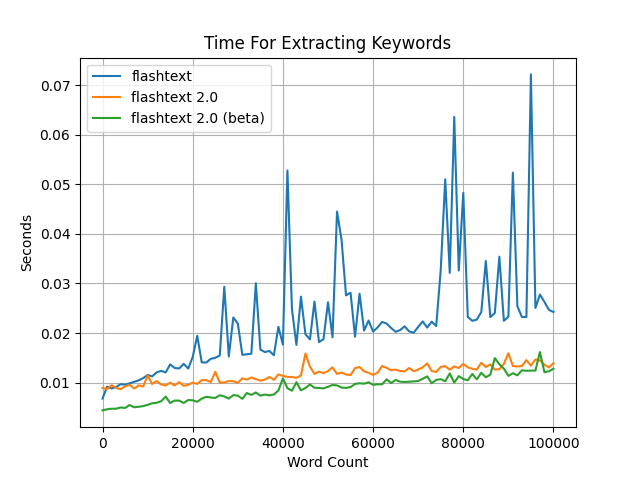
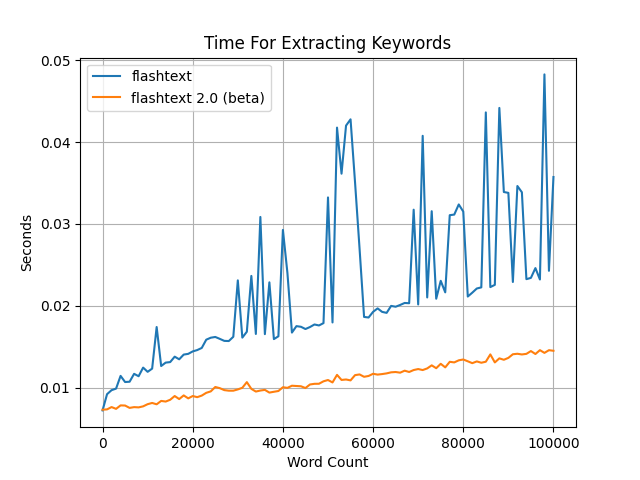
Passes 50/50 tests and its twice as fast

diff --git a/benchmarks/benchmark_extract.py b/benchmarks/benchmark_extract.py
@@ -6,70 +6,12 @@ import pandas as pd
 
 import time
 import random
-import re
-import itertools
-import string
-from typing import Iterator, TYPE_CHECKING
+from typing import TYPE_CHECKING
 
 from utils import all_words  # , pretty_print
 
 if TYPE_CHECKING:
     from flashtext2 import KeywordProcessor
-
-
-non_word_boundaries_: set[str] = set(string.digits + string.ascii_letters + '_')
-
-
-def split_sentence(sentence: str) -> Iterator[tuple[bool, str]]:
-    for is_word, word in itertools.groupby(sentence, key=non_word_boundaries_.__contains__):
-        yield is_word, ''.join(word)
-
-
-def add_keyword(self: KeywordProcessor, word: str, clean_word: str | None = None) -> None:
-    if not clean_word:
-        clean_word = word
-    if not self._case_sensitive:
-        word = word.lower()
-
-    node = self._trie_dict
-    for _, word in split_sentence(word):
-        node = node.setdefault(word, {})
-
-    node[flashtext2.TrieDict.keyword] = clean_word
-    self._keywords_dict[word] = clean_word
-
-
-def extract_keywords_iter(self: KeywordProcessor, sentence: str) -> Iterator[tuple[str, int, int]]:
-    if not self._case_sensitive:
-        sentence = sentence.lower()
-
-    keyword_key = self.keyword
-    trie_dict = self.trie_dict
-
-    longest_kw_tup = None
-    node = trie_dict
-    word_len = 0
-
-    idx = 0
-    for word in itertools.chain(re.split(self._split_pattern, sentence), ['']):
-        idx += len(word)
-
-        node = node.get(word)
-
-        if node is None:
-            if longest_kw_tup:
-                yield longest_kw_tup
-
-            longest_kw_tup = None
-            node = trie_dict
-            word_len = 0
-            continue
-        else:
-            word_len += len(word)
-
-        kw = node.get(keyword_key)
-        if kw:
-            longest_kw_tup = (kw, idx - word_len, idx)
 
 
 def test() -> list[tuple]:
@@ -80,6 +22,7 @@ def test() -> list[tuple]:
         sentence = ' '.join(words)  # len(story) == 10,000 * 6 = 60,000 chars
         keywords = random.sample(all_words, i)
 
+        flashtext2.KeywordProcessor.split_sentence('abc d ef')  # call the function to cache the regex compilation
         # ------ tests --------------------------------------------------------------------------------------
         kp = flashtext.KeywordProcessor()
         kp.add_keywords_from_list(keywords)
@@ -97,37 +40,19 @@ def test() -> list[tuple]:
         time2 = time.perf_counter() - start
         del kp
 
-        kp = flashtext2.KeywordProcessor()
-        for w in keywords:
-            add_keyword(self=kp, word=w)
-
-        # print(out2)
-        # print(keywords)
-        # print(sentence)
-        # print()
-        # print(kp.get_keywords)
-        # print(kp.trie_dict)
-        # print([x[0] for x in extract_keywords_iter(kp, sentence)])
-        # print('-' * 100)
-
-        start = time.perf_counter()
-        out3 = [x[0] for x in extract_keywords_iter(kp, sentence)]
-        time3 = time.perf_counter() - start
-
         # print(time1, time2, time3)
         # ---------------------------------------------------------------------------------------------------
 
         # to make sure we exhausted the generators if the output is a list
         assert isinstance(out1, list)
         assert isinstance(out2, list)
-        assert isinstance(out3, list)
-        assert len(out1) == len(out2) == len(out3), ('Length:', len(out1), len(out2), len(out3), out1, out2, out3)
+        # assert isinstance(out3, list)
+        assert len(out1) == len(out2), ('Length:', len(out1), len(out2), out1, out2)
         assert out1 == out2
-        assert out2 == out3, (out2, out3)
 
         # you can uncomment this if you want copy and paste the output in gsheets or excel
         # pretty_print(i, time1, time2)
-        lst.append((i, time1, time2, time3))
+        lst.append((i, time1, time2))
     return lst
 
 
@@ -147,15 +72,15 @@ def main():
     # get the average of each column
     new_cols = [list(map(mean, zip(*col_grp))) for col_grp in new_cols]
 
-    count, time1, time2, time3 = new_cols
+    count, time1, time2 = new_cols
     df = pd.DataFrame({
         'count': count,
         'flashtext': time1,
-        'flashtext 2.0': time2,
-        'flashtext 2.0 (beta)': time3,
+        'flashtext 2.0 (beta)': time2,
+        # 'flashtext 2.0 (beta)': time3,
     })
     plt = df.plot.line(title='Time For Extracting Keywords', x='count', xlabel='Word Count',
-                       ylabel='Seconds', y=['flashtext', 'flashtext 2.0', 'flashtext 2.0 (beta)'], grid=True)
+                       ylabel='Seconds', y=['flashtext', 'flashtext 2.0 (beta)'], grid=True)
     plt.figure.savefig('extract-keywords.png')
 
 

diff --git a/flashtext2/keyword_processor.py b/flashtext2/keyword_processor.py
@@ -72,35 +72,33 @@ class KeywordProcessor(TrieDict):
         if not self._case_sensitive:
             sentence = sentence.lower()
 
-        trie = self.trie_dict
-        keyword = self.keyword
         words: list[str] = self.split_sentence(sentence) + ['']
-        len_words = len(words)
+        keyword = self.keyword
+        trie = self.trie_dict
+        node = trie
 
+        last_kw_found: str | None = None
+        n_words_covered = 0
         idx = 0
-        while idx < len_words:
+        while idx < len(words):
+            word = words[idx]
 
-            # longest_match: tuple[str, int, int] | None = None
-            longest_match: str | None = None
-            n_words_covered = 0
-            node = trie
-            for i in range(idx, len_words):
-                word = words[i]
-                n_words_covered += 1
-
-                node = node.get(word)
-                if node:  # try using the walrus operator
-                    kw_found = node.get(keyword)
-                    if kw_found:
-                        longest_match = kw_found
-                else:
-                    break
-
-            if longest_match:
-                yield longest_match,
-                idx += n_words_covered - 1
+            n_words_covered += 1
+            node = node.get(word)
+            if node:
+                kw = node.get(keyword)
+                if kw:
+                    last_kw_found = kw
             else:
-                idx += 1
+                if last_kw_found is not None:
+                    yield last_kw_found,
+                    last_kw_found = None
+                    idx -= 1
+                else:
+                    idx -= n_words_covered - 1
+                node = trie
+                n_words_covered = 0
+            idx += 1
 
     def replace_keywords(self, sentence: str) -> str:
         """
@@ -125,9 +123,3 @@ class KeywordProcessor(TrieDict):
             prev_end = end
         # after replacing all the keywords we need to get the text between the last keyword and the end of the sentence
         return s + sentence[prev_end:]
-
-
-# kp = KeywordProcessor()
-# kp.add_keywords_from_dict({'Distributed Super Computing': ['distributed super computing']})
-# out = kp.extract_keywords('distributed super distributed super computing')
-# print(out)

diff --git a/tests/test_extractor.py b/tests/test_extractor.py
@@ -25,8 +25,8 @@ class TestKeywordExtractor(unittest.TestCase):
         for test_id, test_case in enumerate(self.test_cases):
             kp = KeywordProcessor()
             kp.add_keywords_from_dict(test_case['keyword_dict'])
-            keywords_extracted = kp.extract_keywords(test_case['sentence'])
-            self.assertEqual(keywords_extracted, test_case['keywords'], (test_id, test_case))
+            keywords_extracted = kp.extract_keywords(test_case['sentence'], span_info=False)
+            self.assertEqual(test_case['keywords'], keywords_extracted, (test_id, test_case))
 
     def test_extract_keywords_case_sensitive(self):
         """
@@ -37,5 +37,5 @@ class TestKeywordExtractor(unittest.TestCase):
         for test_id, test_case in enumerate(self.test_cases):
             kp = KeywordProcessor(case_sensitive=True)
             kp.add_keywords_from_dict(test_case['keyword_dict'])
-            keywords_extracted = kp.extract_keywords(test_case['sentence'])
-            self.assertEqual(keywords_extracted, test_case['keywords_case_sensitive'], (test_id, test_case))
+            keywords_extracted = kp.extract_keywords(test_case['sentence'], span_info=False)
+            self.assertEqual(test_case['keywords_case_sensitive'], keywords_extracted, (test_id, test_case))

diff --git a/benchmarks/utils.py b/benchmarks/utils.py
@@ -1,3 +1,5 @@
+from __future__ import annotations
+
 import string
 import random
 
